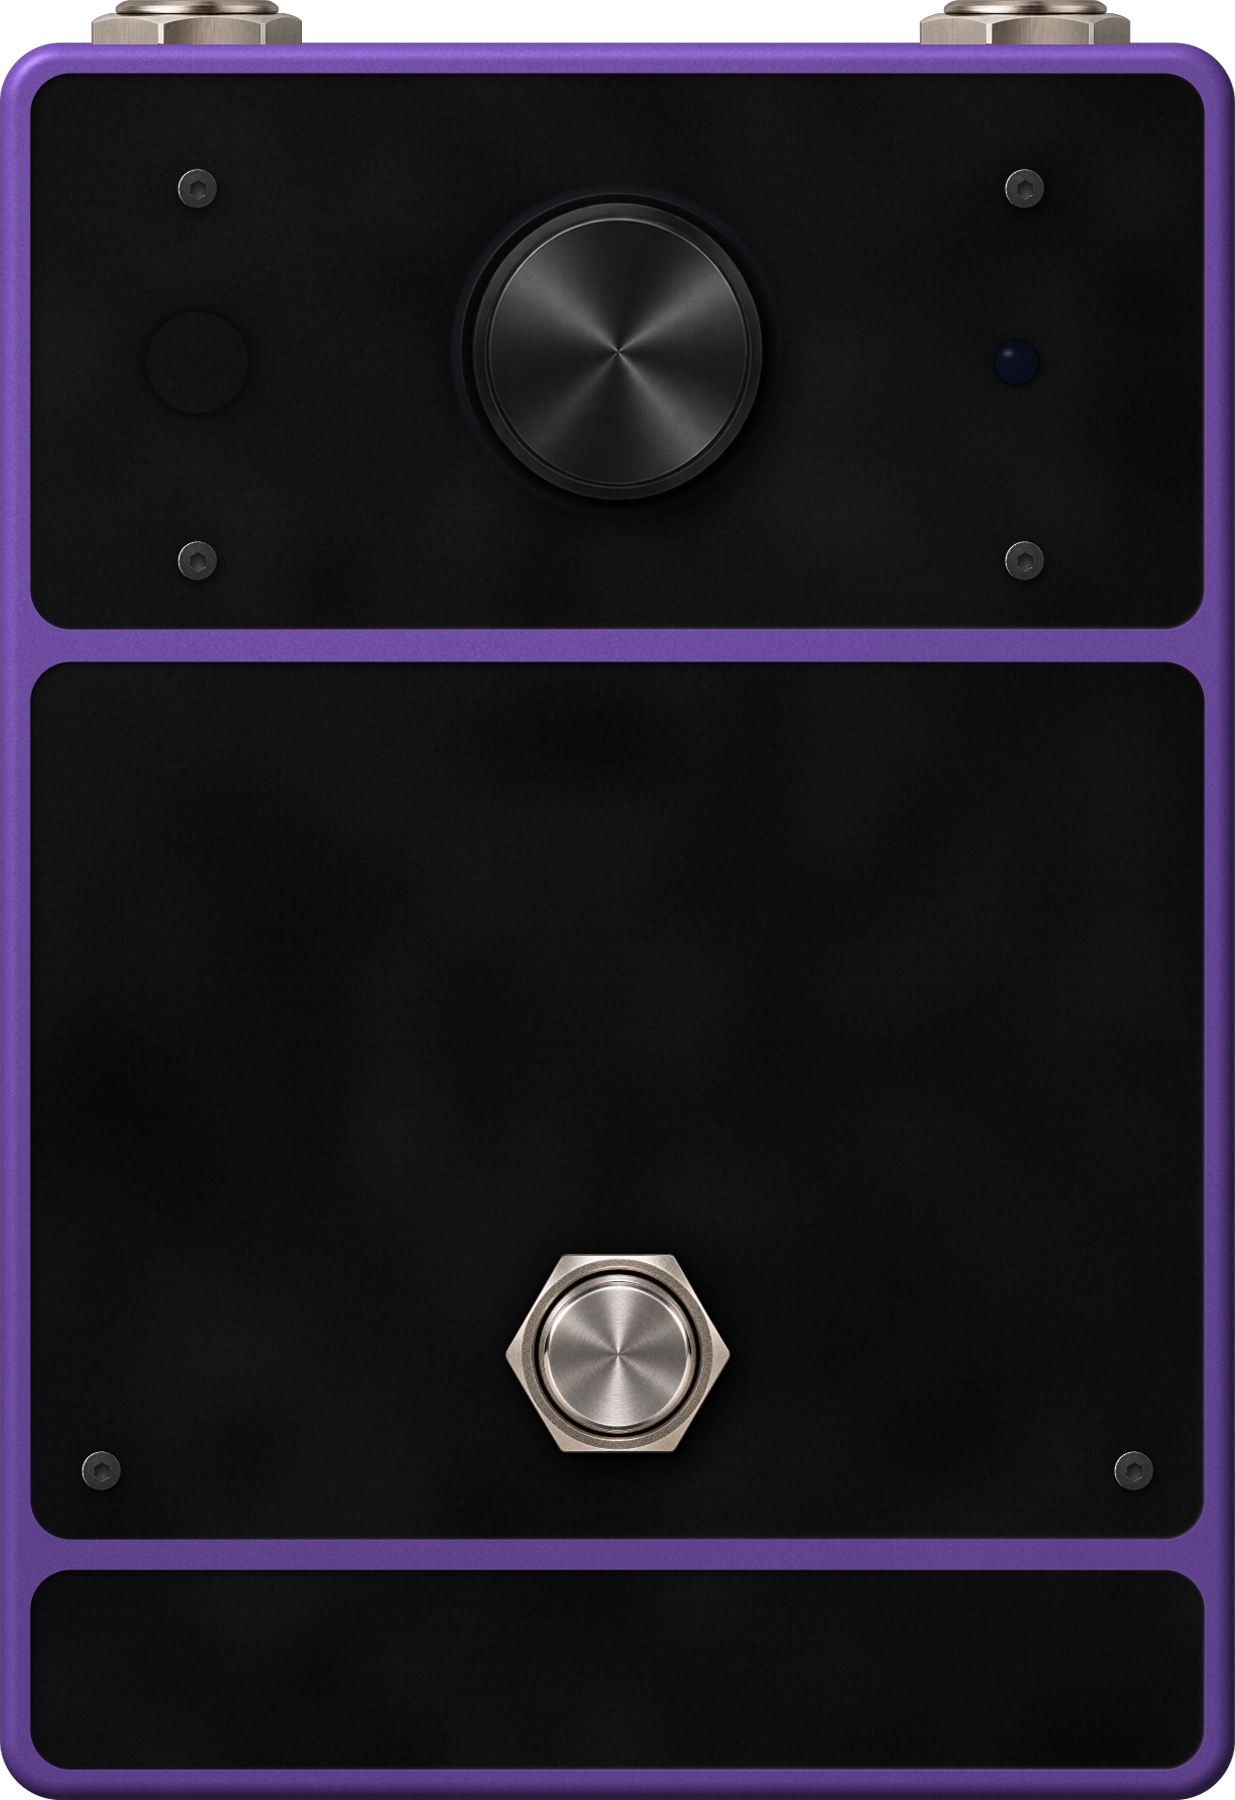
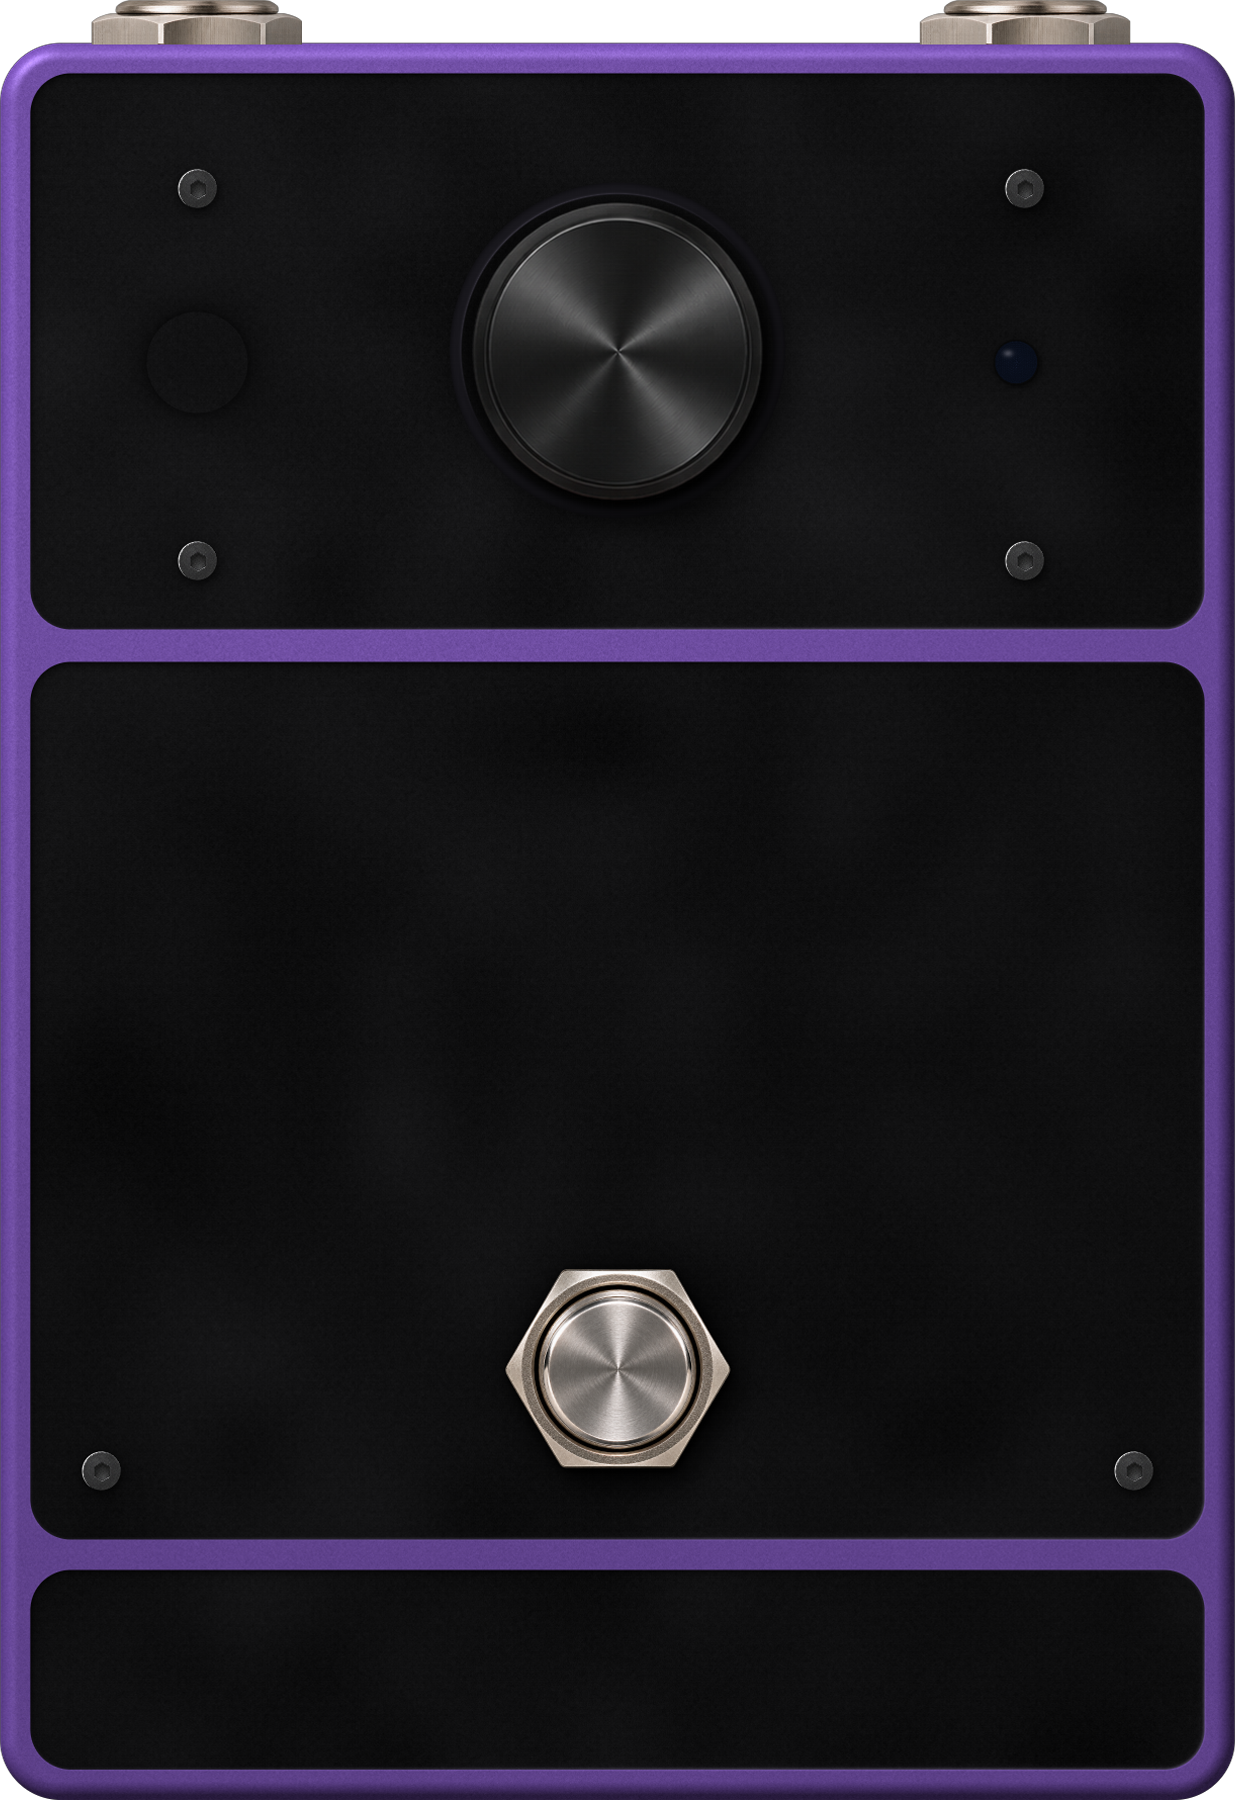
Refonte v2 : footswitch baisse de 15 px (image 1800 px)
Claude-Session: https://claude.ai/code/session_01M9P3ZZMVgdomojBwTRHBJY

Changed region(s): [[0.4, 0.6844, 0.6154, 0.84]]

diff --git a/Layout.h b/Layout.h
@@ -7,7 +7,7 @@ namespace layout
     const juce::Point<float> knobPos { 308.75f, 175.20f }; const float knobR = 72.81f;
     const float indexR0 = 21.84f, indexR1 = 66.98f, indexW = 5.46f;   // repere blanc du potard
     const juce::Point<float> ledPos { 508.15f, 181.26f }; const float ledS = 26.54f;
-    const juce::Point<float> fsPos { 308.75f, 676.77f }; const float footR = 37.54f, fsS = 188.29f;
+    const juce::Point<float> fsPos { 308.75f, 684.27f }; const float footR = 37.54f, fsS = 188.29f;
     const juce::Point<float> togglePos { 98.63f, 181.26f }; const float toggleS = 91.01f;
     const juce::Rectangle<float> glowRing { 165.15f, 31.35f, 287.19f, 287.19f }, glowLed { 416.95f, 90.00f, 182.02f, 182.02f };
     const float fsRingR = 40.45f, fsRingW = 2.53f;   // anneau lumineux dans la gorge du footswitch (dessin d'Octopus)

diff --git a/tools/make_art.py b/tools/make_art.py
@@ -55,7 +55,7 @@ RING_R0, RING_R1 = KNOB_R + 5.0, KNOB_R + 11.0     # anneau lumineux autour du p
 TICK_R0, TICK_R1, TICK_R1L = KNOB_R + 21.0, KNOB_R + 31.0, KNOB_R + 35.0
 TOG = (CX - 196.0 * KX, P(158.0)); TOG_WR = 25.0
 LED = (CX + 186.0 * KX, P(158.0)); LED_LENS = 10.5
-FS = (CX, P(648.0)); FS_FLATS = 98.0
+FS = (CX, P(648.0) + 7.5 / SC); FS_FLATS = 98.0   # baisse de 15 px dans l image 1800 px (demande nov. 2026)
 FS_GROOVE_R, FS_GROOVE_W = 40.0, 2.5             # anneau lumineux dans la gorge du footswitch (comme Octopus)
 PRESET = (CX - 198.0, P(770.0), 396.0, 37.6)      # 400 x 38 unites du plugin (regle Strong Pickle)
 LOGO_C = (CX, P(834.0)); LOGO_W = 190.0
